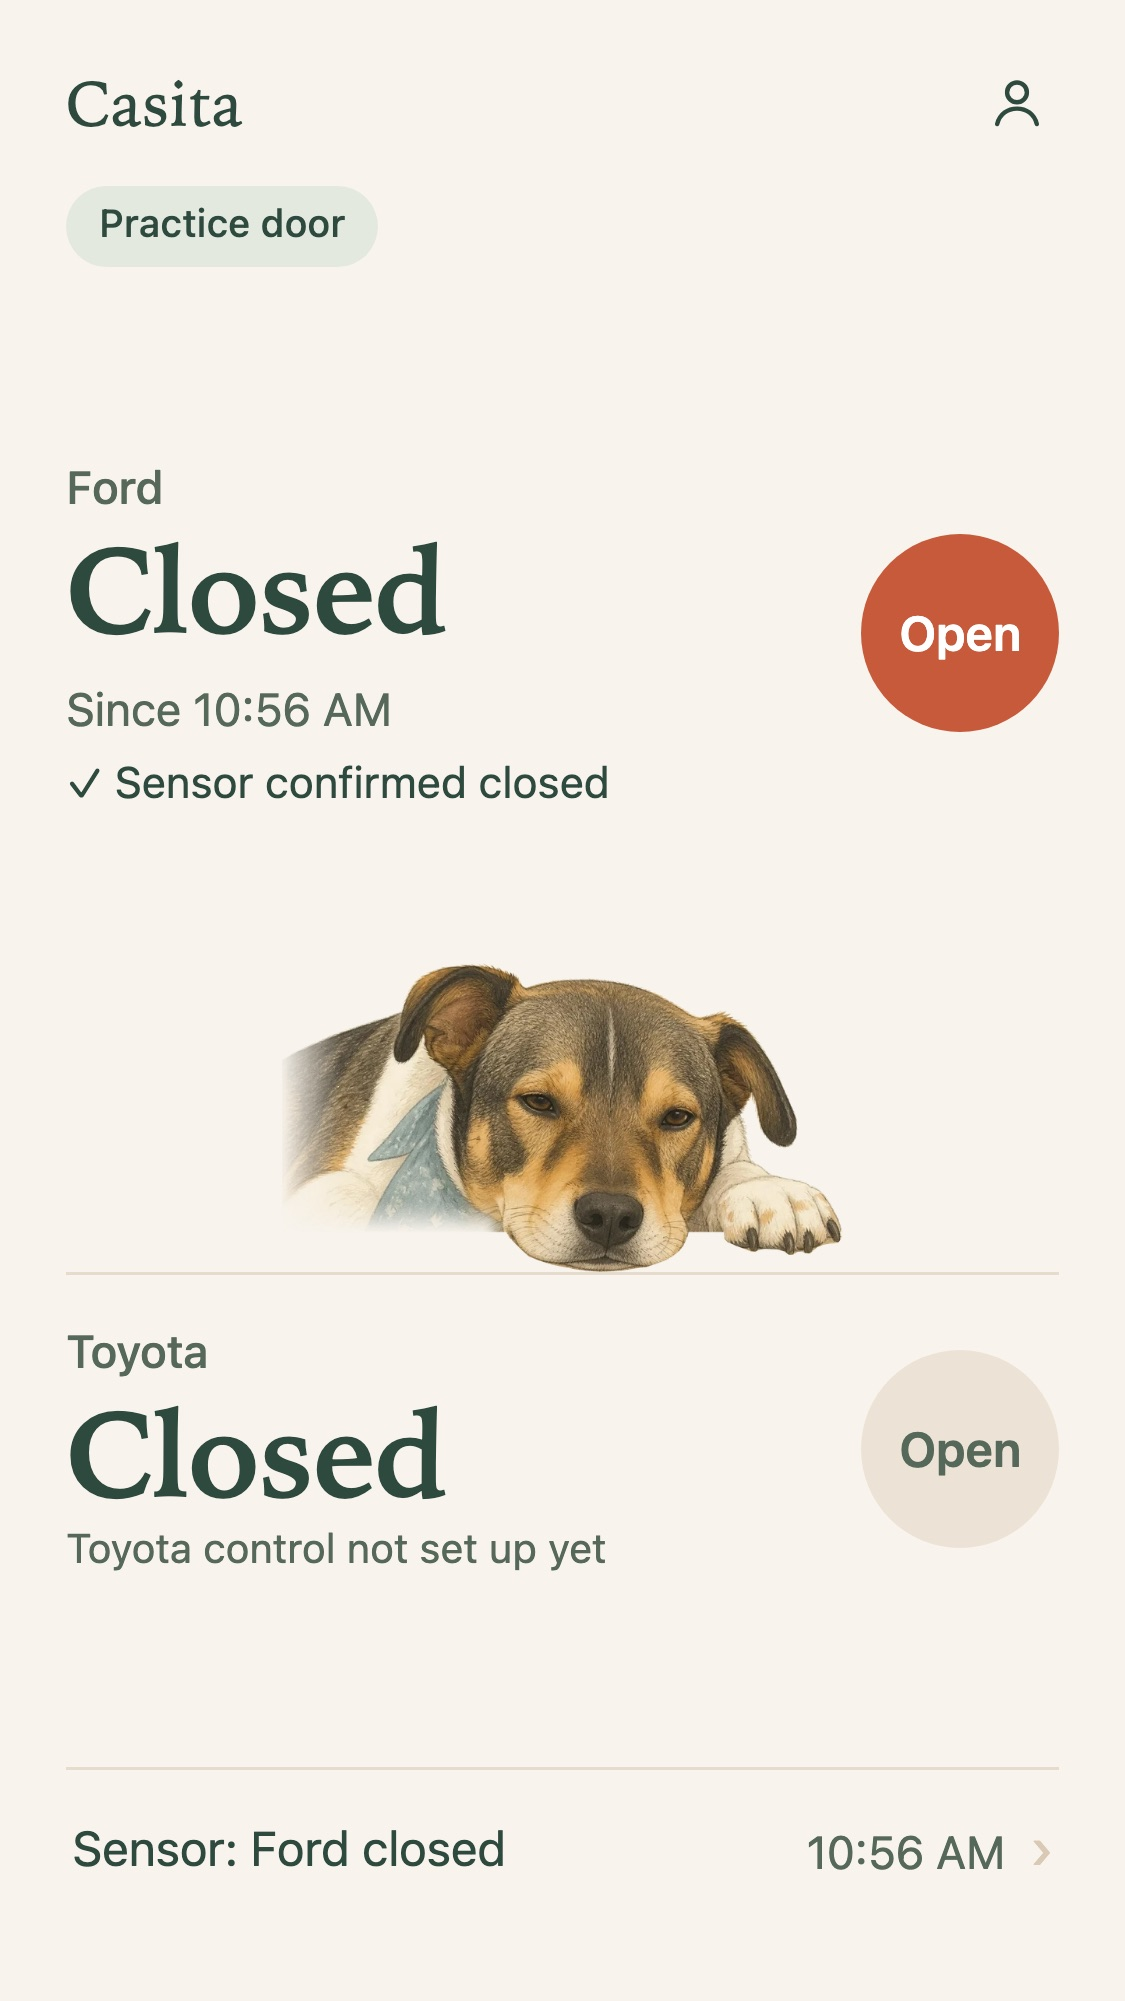
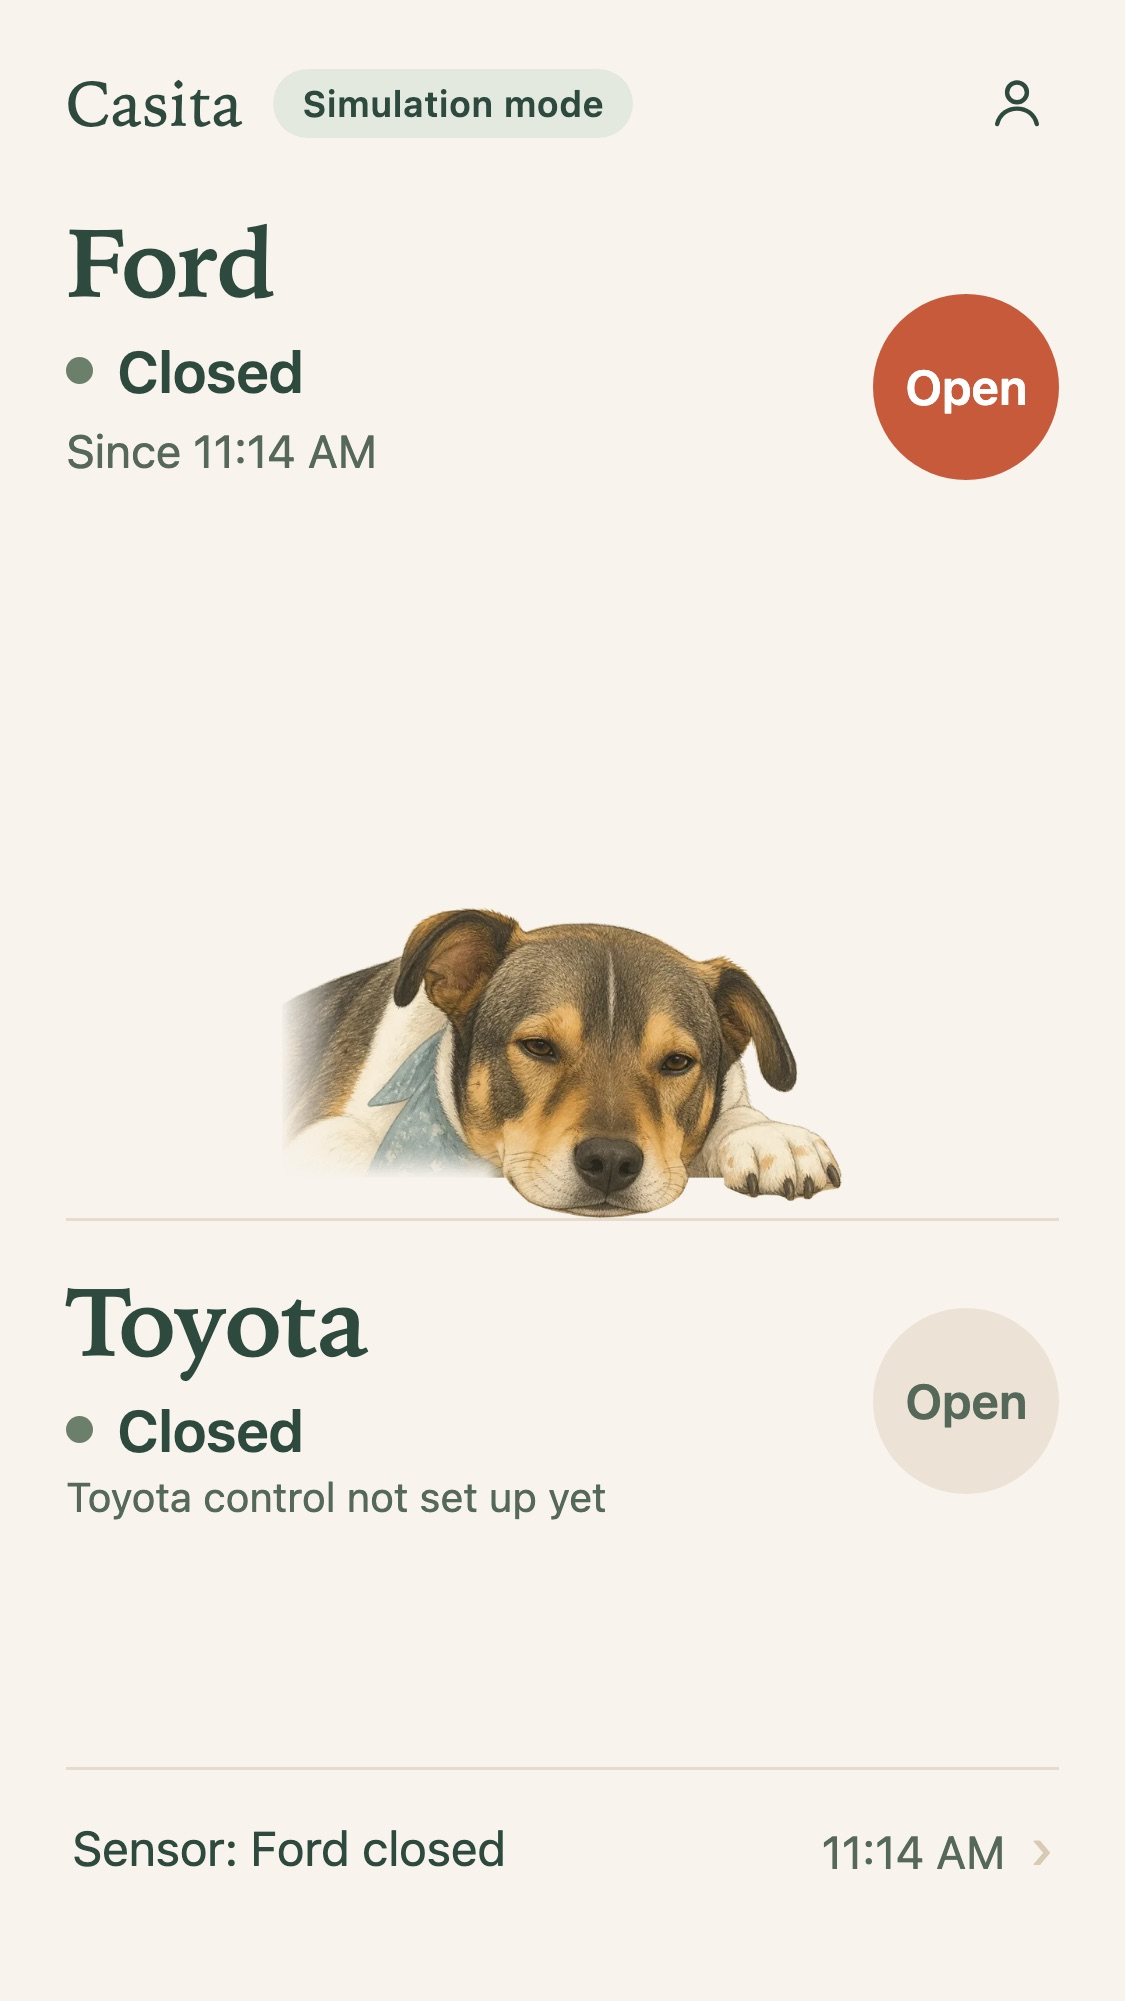
Casita home: door names lead, status follows, doors start high
The approved refinement of the two-door screen:
- Each door's name is the heading of its area: 36 pt serif (32 on an SE).
  The status follows as a dot and a word (21 pt, coloured only by status),
  then one short line. Colour never marks which car it is.
- Ford sits just under the header and Toyota just under Watson's divider; the
  spare height is split evenly below each door, so the areas balance and
  there's no empty band above Ford.
- "Simulation mode" (was "Practice door") sits on the header row.
- Round controls are 68 pt (62 on an SE). The estimate line keeps its space,
  so Watson and Toyota don't move while Ford opens (checked in the browser).
- Toyota's control stays disabled ("Toyota control not set up yet") until the
  server commands it.
- docs/APP.md and docs/screens updated.

Simulated doors only. No door logic, security or Meross changes.

diff --git a/src/main/resources/static/casita.css b/src/main/resources/static/casita.css
@@ -42,35 +42,44 @@ h1, h2 { font-weight: 600; margin: 0; }
 /* ---------- home: two doors, one house ---------- */
 .home main { display: flex; flex-direction: column; min-height: calc(100dvh - max(10px, env(safe-area-inset-top)) - max(20px, env(safe-area-inset-bottom))); }
 
-.top { display: flex; align-items: center; justify-content: space-between; min-height: 48px; }
+.top { display: flex; align-items: center; gap: 10px; min-height: 48px; }
 .wordmark { font-family: var(--serif); font-size: 1.3rem; letter-spacing: 0.01em; }
 .account {
-  width: 44px; height: 44px; margin-right: -8px; border: none; border-radius: 50%; background: none;
+  width: 44px; height: 44px; margin-left: auto; margin-right: -8px; border: none; border-radius: 50%; background: none;
   color: var(--pine); display: flex; align-items: center; justify-content: center; cursor: pointer;
 }
 
+/* The mode ("Simulation mode") sits on the header row, so the doors can start high. */
 .tag {
-  display: none; align-self: flex-start; margin: 4px 0 0; padding: 4px 11px; border-radius: 999px;
-  background: var(--sage-soft); color: var(--pine); font-size: 0.8rem; font-weight: 500;
+  display: none; padding: 4px 10px; border-radius: 999px;
+  background: var(--sage-soft); color: var(--pine); font-size: 0.75rem; font-weight: 600; letter-spacing: 0.01em;
 }
 .tag.shown { display: inline-block; }
 
-/* Ford above, Toyota below, Watson resting on the hairline between them. The block sits centred in the
-   free space, so both doors and their controls stay on screen on a small iPhone, without scrolling. */
-.doors { flex: 1; display: flex; flex-direction: column; justify-content: center; padding: 12px 0; }
+/* Ford above, Toyota below, Watson resting on the hairline between them. Each door sits at the top of its
+   own area, Ford just under the header and Toyota just under the divider; the spare height is split
+   evenly below each door, so the two areas balance and both fit a small iPhone without scrolling. */
+.doors { flex: 1; display: flex; flex-direction: column; min-height: 0; }
+#door-0 { margin-top: 22px; }
+#door-1 { margin-top: 26px; }
+.gap { flex: 1; min-height: 12px; }
 .doors[hidden], .door[hidden], .offline[hidden] { display: none; }
 
-/* Each door: its status on the left, its one round control on the right. Equal weight for both doors. */
-.door { display: flex; align-items: center; justify-content: space-between; gap: 16px; }
+/* Each door: its name as the heading of its area, then its status, then its one round control on the
+   right. Both doors are equal; colour only ever says status or action, never which car. */
+.door { flex: none; display: flex; align-items: center; justify-content: space-between; gap: 16px; }
 .door-text { min-width: 0; }
-.door .name { margin: 0; font-size: 0.95rem; color: var(--muted); font-weight: 500; }
-.door .state {
-  margin: 4px 0 0; font-family: var(--serif); font-weight: 600; font-size: 2.9rem;
-  line-height: 1; letter-spacing: -0.015em;
+.door .name {
+  margin: 0; font-family: var(--serif); font-weight: 600; font-size: 2.25rem; line-height: 1.05;
+  letter-spacing: -0.01em; color: var(--pine);
 }
-.door .detail { margin: 8px 0 0; min-height: 1.45em; font-size: 0.95rem; color: var(--muted); }
+.door .state { display: flex; align-items: center; gap: 8px; margin: 8px 0 0; font-size: 1.3rem; font-weight: 600; line-height: 1.2; }
+.door .dot { flex: none; width: 9px; height: 9px; border-radius: 50%; background: var(--muted); }
+.door .detail { margin: 4px 0 0; min-height: 1.45em; font-size: 0.95rem; color: var(--muted); }
 .door.closed .state { color: var(--pine); }
+.door.closed .dot { background: var(--sage); }
 .door.not-closed .state, .door.moving .state, .door.alert .state { color: var(--terracotta-deep); }
+.door.not-closed .dot, .door.moving .dot, .door.alert .dot { background: var(--terracotta); }
 .door.quiet .state { color: var(--muted); }
 .door .note { margin: 2px 0 0; font-size: 0.85rem; color: var(--muted); text-align: left; }
 .door .note:empty { display: none; }
@@ -93,9 +102,9 @@ h1, h2 { font-weight: 600; margin: 0; }
 .result { margin: 0; color: var(--pine); }
 .result.alert { color: var(--terracotta-deep); }
 
-/* The round control: one tap, one command. 72 pt, far from the other door's. */
+/* The round control: one tap, one command. 68 pt, far from the other door's. */
 .go {
-  flex: none; width: 72px; height: 72px; border-radius: 50%; border: none;
+  flex: none; width: 68px; height: 68px; border-radius: 50%; border: none;
   background: var(--terracotta); color: #fff; font: inherit; font-size: 1rem; font-weight: 600;
   cursor: pointer; transition: transform 0.1s var(--ease);
 }
@@ -104,7 +113,7 @@ h1, h2 { font-weight: 600; margin: 0; }
 
 /* Watson peeks over the divider: chin on the hairline. Sized by width, about half the screen, at most 220 pt;
    the approved art (4:3) is fitted, never cropped. Hidden, with no stand-in, until it is configured. */
-.fence { margin: 20px 0 22px; }
+.fence { flex: none; }
 .companion { margin: 0; display: flex; justify-content: center; }
 .companion[hidden] { display: none; }
 .companion img { display: block; width: clamp(150px, 50vw, 220px); height: auto; aspect-ratio: 4 / 3; object-fit: contain; object-position: bottom; }
@@ -190,10 +199,11 @@ button.row .when::after { content: "›"; margin-left: 8px; font-size: 1.2rem; c
 
 /* Smaller iPhones (SE): both doors and controls keep their room; Watson and the spacing shrink first. */
 @media (max-height: 700px) {
-  .door .state { font-size: 2.5rem; }
-  .go { width: 66px; height: 66px; }
-  .fence { margin: 12px 0 14px; }
-  .doors { padding: 4px 0; }
+  .door .name { font-size: 2rem; }
+  .door .state { font-size: 1.2rem; margin-top: 6px; }
+  .go { width: 62px; height: 62px; }
+  #door-0 { margin-top: 14px; }
+  #door-1 { margin-top: 18px; }
   .companion img { width: clamp(140px, 50vw, 188px); }
 }
 

diff --git a/src/main/resources/static/index.html b/src/main/resources/static/index.html
@@ -17,16 +17,18 @@
   <main>
     <header class="top">
       <span class="wordmark">Casita</span>
+      <span class="tag" id="mode"></span>
       <button id="account-open" class="account" type="button" aria-label="Account">
         <svg viewBox="0 0 24 24" width="22" height="22" aria-hidden="true" fill="none" stroke="currentColor"
              stroke-width="1.6" stroke-linecap="round"><circle cx="12" cy="8.5" r="3.6"/><path d="M4.8 20c.9-3.6 3.8-5.6 7.2-5.6s6.3 2 7.2 5.6"/></svg>
       </button>
     </header>
-    <p class="tag" id="mode"></p>
 
-    <!-- Two doors, one house: each door is filled in by app.js from /api/doors. -->
+    <!-- Two doors, one house: each door is filled in by app.js from /api/doors. Each sits at the top of
+         its own area (Ford under the header, Toyota under the divider); the spare height is split below each. -->
     <div class="doors" id="doors">
       <section class="door" id="door-0" aria-live="polite"></section>
+      <div class="gap"></div>
 
       <!-- The companion's approved illustration (casita.brand.illustration), resting on the divider. -->
       <div class="fence">
@@ -35,6 +37,7 @@
       </div>
 
       <section class="door" id="door-1" aria-live="polite"></section>
+      <div class="gap"></div>
     </div>
 
     <section class="offline" id="offline" hidden aria-live="polite">
@@ -50,8 +53,8 @@
 
   <template id="door-template">
     <div class="door-text">
-      <p class="name"></p>
-      <p class="state"></p>
+      <h2 class="name"></h2>
+      <p class="state"><span class="dot" aria-hidden="true"></span><span class="word"></span></p>
       <p class="detail"></p>
       <div class="feedback">
         <div class="estimate"><div class="track"><div class="fill"></div></div><span>Estimated</span></div>

diff --git a/src/main/resources/static/app.js b/src/main/resources/static/app.js
@@ -75,7 +75,7 @@
     section.className = "door " + tone + (d.controllable ? "" : " unavailable");
     section.dataset.key = k;
     q(".name").textContent = d.name;
-    q(".state").textContent = word;
+    q(".word").textContent = word;
     q(".detail").textContent = VOICE.detail(d, held);
 
     // Moving: an estimate from the configured travel time, labelled so. Never a sensor reading.

diff --git a/src/main/resources/static/voice.js b/src/main/resources/static/voice.js
@@ -29,7 +29,7 @@ const VOICE = (function () {
     noHistory() { return "No history yet"; },
 
     modes: {
-      simulated: "Practice door",
+      simulated: "Simulation mode",
       off: "Door control off",
       "dry-run": "Rehearsal: nothing is sent",
       live: "",

diff --git a/docs/APP.md b/docs/APP.md
@@ -88,8 +88,10 @@ casita:
 
 Two doors, one house: Ford above, Toyota below, with equal weight, and Watson between them.
 
-- **Each door** has its name, its state in large serif type, one short line, and one round control
-  (72 pt, 66 on a small iPhone) on the right. States: *Closed* and *Not closed* ("Since 6:42 PM"),
+- **Each door** is its own area, headed by its name in large serif type (36 pt, 32 on a small
+  iPhone). Under it: the status (a dot and a word, coloured only by status), one short line, and on
+  the right one round control (68 pt, 62 on a small iPhone). Ford sits just under the header and
+  Toyota just under the divider; the spare height is split evenly below each. States: *Closed* and *Not closed* ("Since 6:42 PM"),
   *Opening…* / *Closing…* ("About 6 seconds"), *Checking…*, *Unknown* ("The sensor can't confirm
   where Ford is."), *Needs a check* (held).
 - **Which doors can be commanded comes from the server.** A door's control is enabled only when
@@ -124,13 +126,14 @@ Two doors, one house: Ford above, Toyota below, with equal weight, and Watson be
 - **History** is one tap away: the last event is a row; tapping it opens a sheet with the rest.
 - **Account:** a person icon (top right) opens a sheet: who's signed in (and on which device, once
   device access lands), sign out, and the family's line.
-- **Mode tag:** *Practice door* (simulated), *Door control off*, *Rehearsal* (dry run).
+- **Mode tag**, on the header row: *Simulation mode* (simulated doors), *Door control off*,
+  *Rehearsal* (dry run).
 - **App icon:** the approved sage Watson icon (`static/icons/`), in the manifest and as the
   `apple-touch-icon`. iOS fetches it before sign-in, so `/icons/**` must be public: that is in
   `SecurityConfig` (PR #8).
 - **Look:** the approved palette, defined once at the top of `casita.css`: sage `#6B7F6B`,
   terracotta `#C65A3A` (only the active controls), warm cream `#F8F4ED`, deep pine `#2E4A3F`, soft
-  sand `#D9C9B5`, plus darker shades where text needs AA contrast. Serif for states and headings,
+  sand `#D9C9B5`, plus darker shades where text needs AA contrast. Serif for door names and headings,
   the system font for the rest. No cards, boxes or shadows.
 - **iPhone:** safe areas on all sides, 44 pt+ targets, both doors on screen without scrolling on a
   375×667 iPhone, sheets from the bottom. *Reduce Motion* turns off transitions.

diff --git a/docs/screens/README.md b/docs/screens/README.md
@@ -1,6 +1,6 @@
 # Home screen review shots
 
-The two-door home screen on the practice door, captured with headless Chrome at iPhone sizes, 3×,
+The two-door home screen on the simulated doors ("Simulation mode"), captured with headless Chrome at iPhone sizes, 3×,
 on 2026-10-19. Standard: 393 × 852 (iPhone 15/16). Small: 375 × 667 (iPhone SE).
 
 | | Standard | Small |
